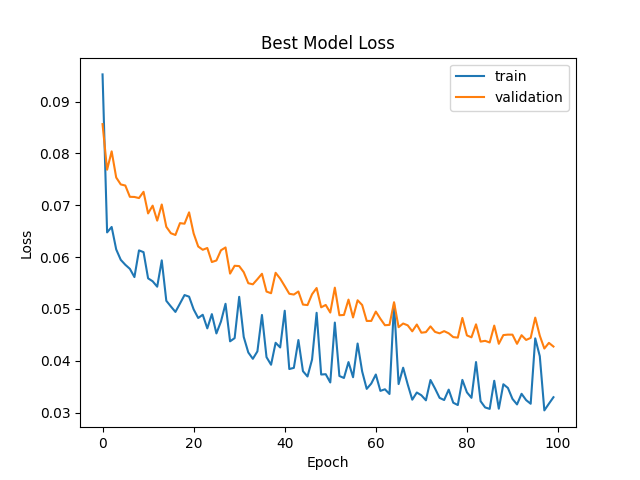
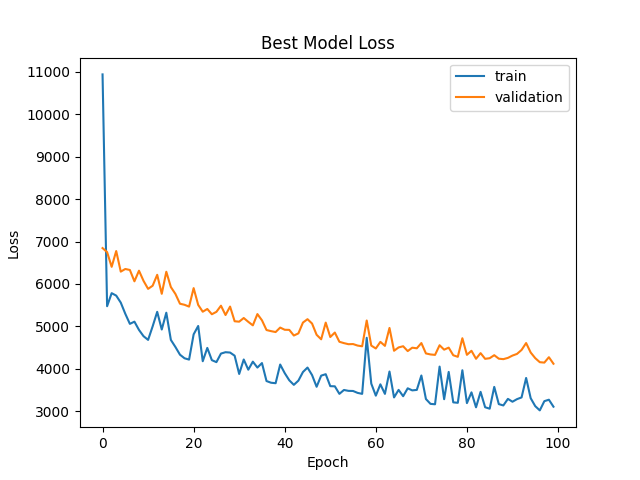
feat: implement test set evaluation and visualization pipeline for model predictions

diff --git a/src/plot.py b/src/plot.py
@@ -30,15 +30,6 @@ def plot_losses(losses: dict, title: str, save_path: str):
 
 
 def plot_lr_search_summary(learning_rates, train_errors, val_errors, save_path):
-    """
-    How to call:
-    plot_lr_search_summary(
-        learning_rates = LR_CANDIDATES,
-        train_errors   = [train_losses_across_lrs[lr][-1] for lr in LR_CANDIDATES],
-        val_errors     = [val_losses_across_lrs[lr][-1]   for lr in LR_CANDIDATES],
-        save_path      = "../visualization/lr_search.png"
-    )
-    """
     os.makedirs(os.path.dirname(save_path), exist_ok=True)
 
     fig, ax = plt.subplots(figsize=(8, 4))
@@ -53,6 +44,29 @@ def plot_lr_search_summary(learning_rates, train_errors, val_errors, save_path):
     ax.set_title("LR Search — Final Loss per Learning Rate")
     ax.legend()
     ax.grid(alpha=0.3, which='both')
+
+    plt.tight_layout()
+    plt.savefig(save_path)
+    plt.close()
+
+
+def plot_predictions(y_actual, y_hat, save_path):
+    os.makedirs(os.path.dirname(save_path), exist_ok=True)
+
+    fig, ax = plt.subplots(figsize=(6, 6))
+
+    ax.scatter(y_actual, y_hat, alpha=0.6, color="#2196F3",
+               edgecolors="white", linewidths=0.5, label="Predictions")
+
+    min_val = min(y_actual.min(), y_hat.min())
+    max_val = max(y_actual.max(), y_hat.max())
+    ax.plot([min_val, max_val], [min_val, max_val],
+            color="#FF5722", linestyle="--", linewidth=1.5, label="Perfect fit")
+
+    ax.set_xlabel("Actual")
+    ax.set_ylabel("Predicted")
+    ax.set_title("Actual vs Predicted")
+    ax.legend()
 
     plt.tight_layout()
     plt.savefig(save_path)

diff --git a/src/main.py b/src/main.py
@@ -4,13 +4,14 @@ from model     import LinearRegression
 from loss_fn   import get_loss_fn
 from optimizer import get_optimizer
 from train     import train
-from plot      import plot_losses, plot_lr_search_summary
+from plot      import plot_losses, plot_lr_search_summary, plot_predictions
+from evaluate  import evaluate_on_test
 import os
 ROOT = os.path.dirname(os.path.dirname(os.path.abspath(__file__)))
 
 
 # --- data ---
-dataset = DiabetesDataset(os.path.join(ROOT, "data", "diabetes.csv"), True)
+dataset = DiabetesDataset(os.path.join(ROOT, "data", "diabetes.csv"), False)
 train_dataset, validation_dataset, test_dataset = split_dataset(dataset)
 train_loader = create_data_loader(train_dataset, 32, True)
 validation_loader = create_data_loader(validation_dataset, len(validation_dataset))
@@ -64,4 +65,14 @@ plot_lr_search_summary(
     train_errors   = [train_losses_across_lrs[lr][-1] for lr in LR_CANDIDATES],
     val_errors     = [validation_losses_across_lrs[lr][-1]   for lr in LR_CANDIDATES],
     save_path      = os.path.join(ROOT, "visualization", "lr_search.png")
+)
+
+
+# --- testing and plotting ---
+y_actual, y_hat = evaluate_on_test(best_model, test_loader)
+
+plot_predictions(
+    y_actual  = y_actual,
+    y_hat     = y_hat,
+    save_path = os.path.join(ROOT, "visualization", "predictions.png")
 )

diff --git a/src/evaluate.py b/src/evaluate.py
@@ -13,3 +13,22 @@ def evaluate(model, data_loader, loss_fn):
 
     model.train()
     return evaluation_loss / len(data_loader)
+
+
+def evaluate_on_test(model, test_loader):
+    model.eval()
+    all_y     = []
+    all_y_hat = []
+
+    with torch.no_grad():
+        for x, y in test_loader:
+            y_hat = model(x)
+            all_y.append(y)
+            all_y_hat.append(y_hat)
+
+    # concatenates them into a single tensor and converts it to numpy
+    # this is important as tensor creates 2D torch array arranged by batches. 
+    all_y     = torch.cat(all_y).numpy()
+    all_y_hat = torch.cat(all_y_hat).numpy()
+
+    return all_y, all_y_hat

diff --git a/README.md b/README.md
@@ -2,6 +2,8 @@
 
 A from-scratch implementation of linear regression on the Diabetes dataset. Covers the full ML workflow: data loading, normalization, train/val/test splitting, learning rate search, training, and loss visualization.
 
+The model does not perform very well, which is to be expected at dataset of this scale and that only simple linear regression was applied. The point of this project is not to create a good model, but to create a pipeline that would act as a reference point to jog my memory.
+
 ---
 
 ## Project Structure
